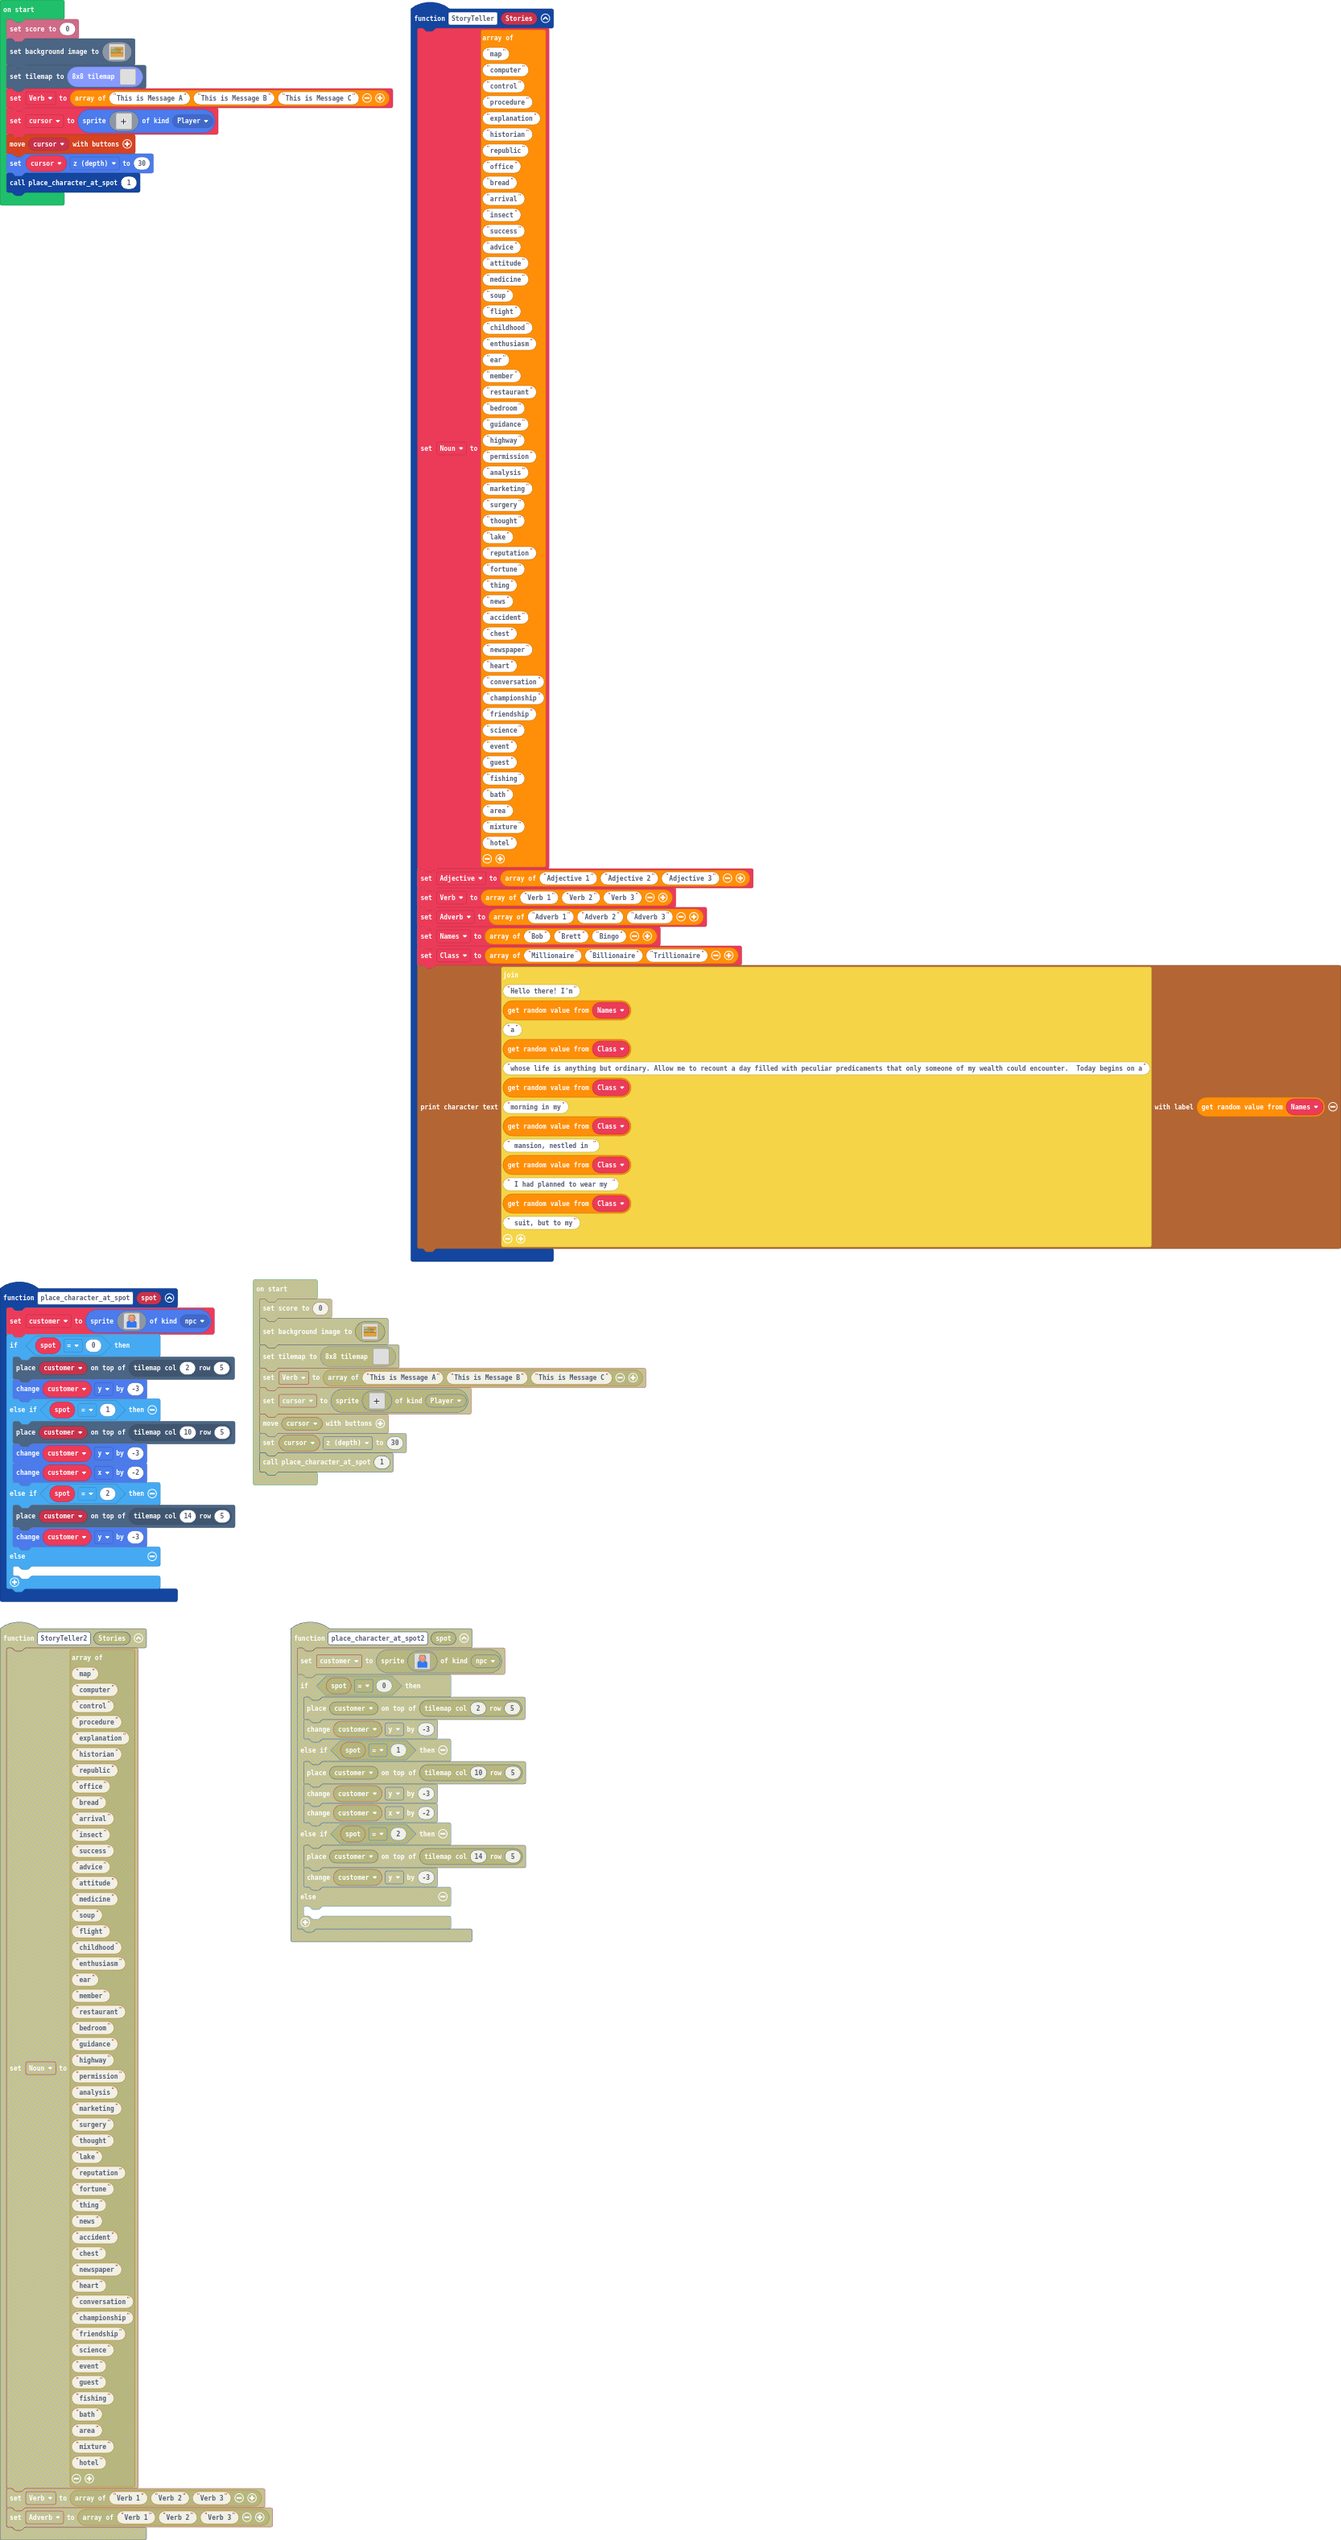
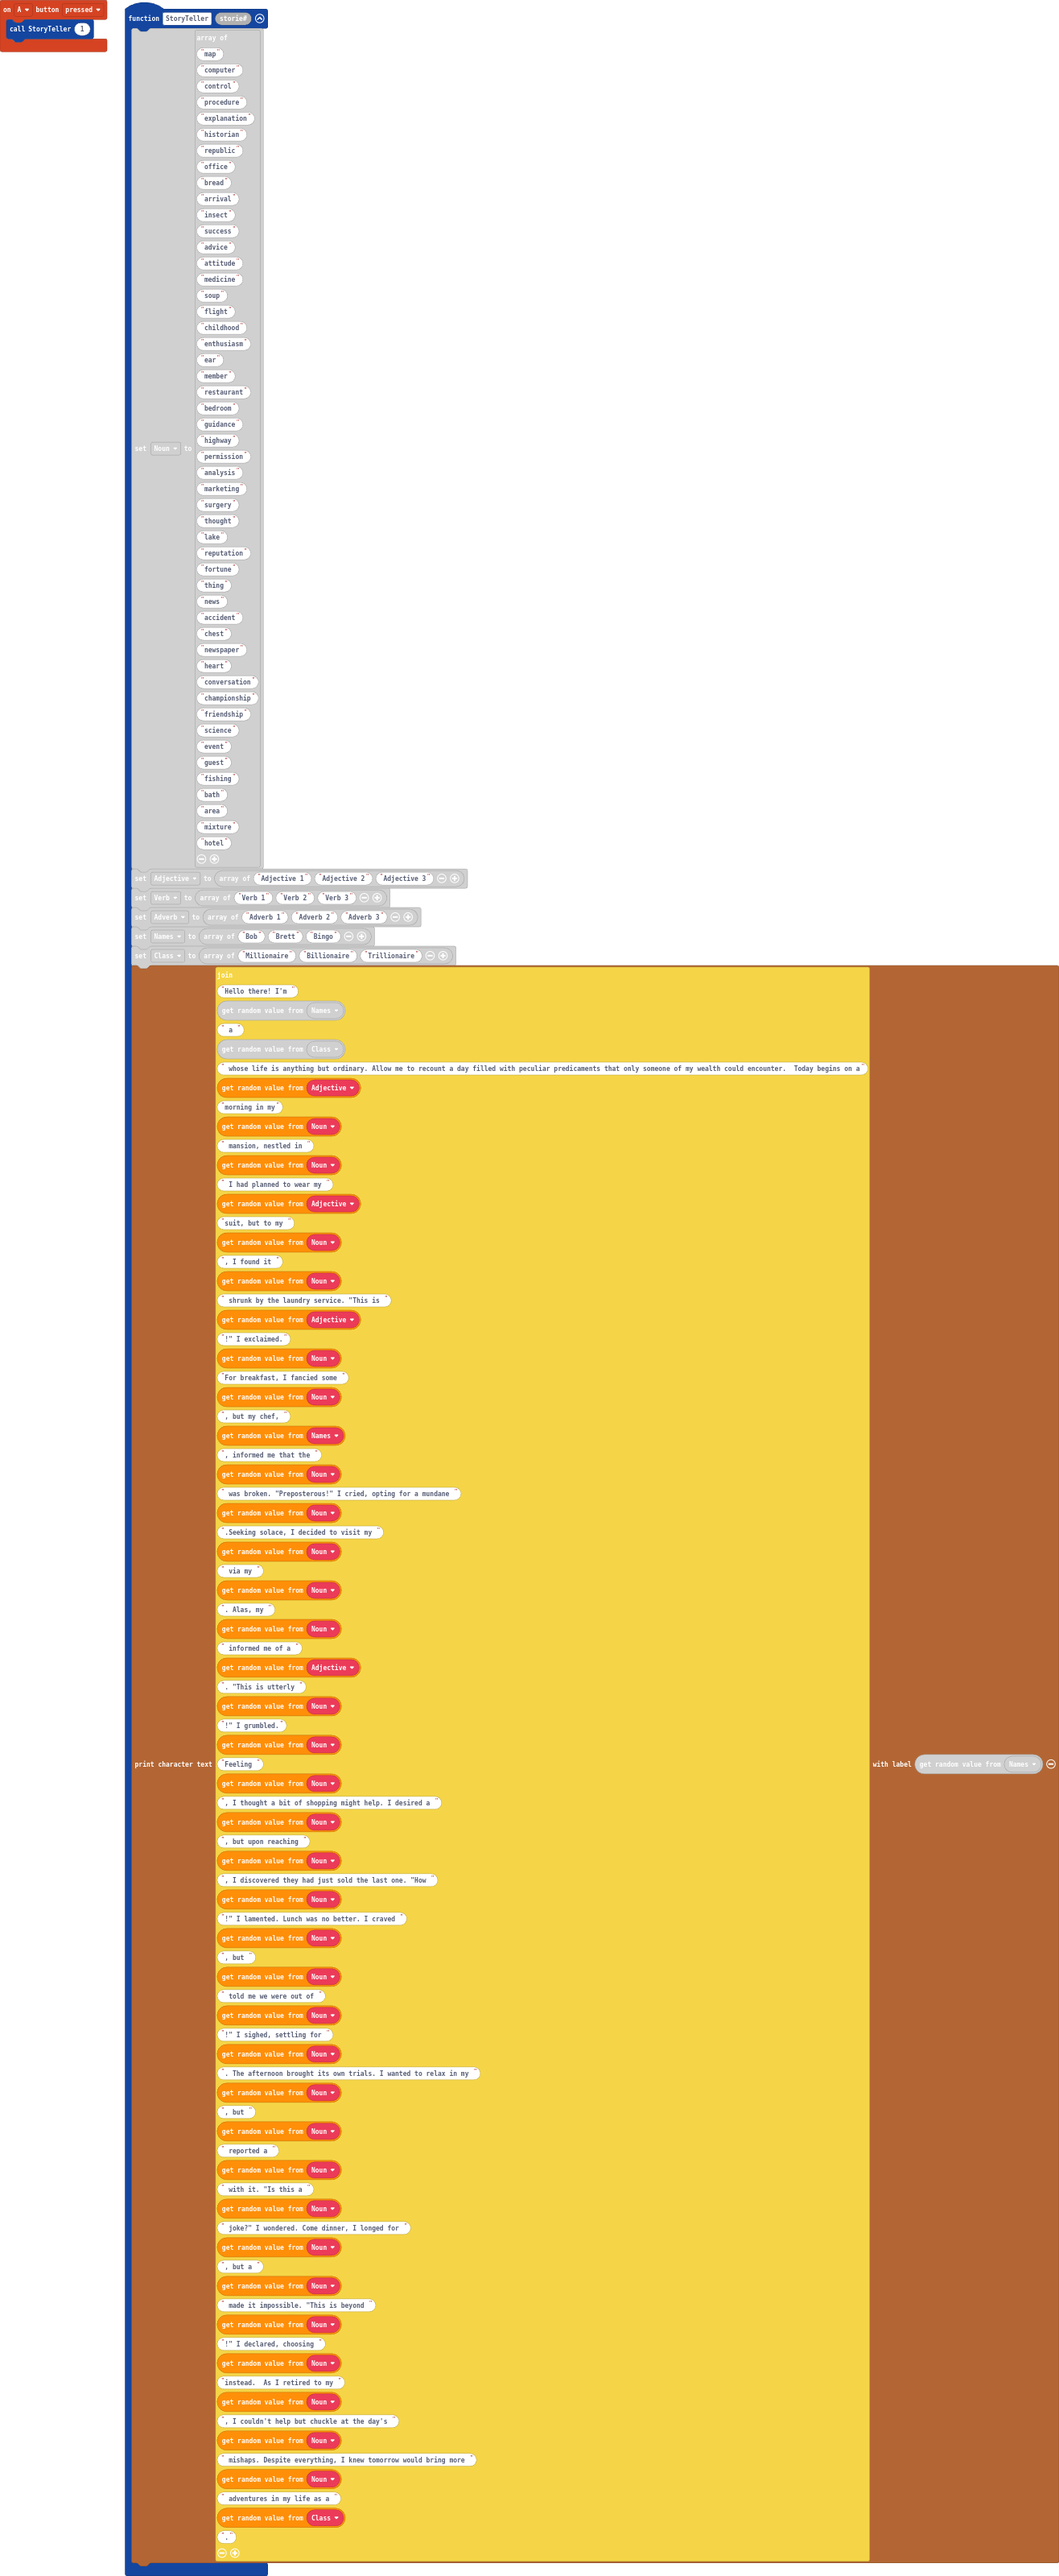
Added Story

diff --git a/main.ts b/main.ts
@@ -2,7 +2,7 @@ namespace SpriteKind {
     export const npc = SpriteKind.create()
     export const greyed_npc = SpriteKind.create()
 }
-function StoryTeller (Stories: any[]) {
+function StoryTeller (storie: number) {
     Noun = [
     "map",
     "computer",
@@ -60,8 +60,11 @@ function StoryTeller (Stories: any[]) {
     Adverb = ["Adverb 1", "Adverb 2", "Adverb 3"]
     Names = ["Bob", "Brett", "Bingo"]
     Class = ["Millionaire", "Billionaire", "Trillionaire"]
-    story.printCharacterText("Hello there! I'm" + Names._pickRandom() + "a" + Class._pickRandom() + "whose life is anything but ordinary. Allow me to recount a day filled with peculiar predicaments that only someone of my wealth could encounter.  Today begins on a" + Class._pickRandom() + "morning in my" + Class._pickRandom() + " mansion, nestled in " + Class._pickRandom() + " I had planned to wear my " + Class._pickRandom() + " suit, but to my", Names._pickRandom())
+    story.printCharacterText("Hello there! I'm " + Names._pickRandom() + " a " + Class._pickRandom() + " whose life is anything but ordinary. Allow me to recount a day filled with peculiar predicaments that only someone of my wealth could encounter.  Today begins on a" + Adjective._pickRandom() + "morning in my" + Noun._pickRandom() + " mansion, nestled in " + Noun._pickRandom() + " I had planned to wear my " + Adjective._pickRandom() + "suit, but to my " + Noun._pickRandom() + ", I found it " + Noun._pickRandom() + " shrunk by the laundry service. \"This is " + Adjective._pickRandom() + "!\" I exclaimed." + Noun._pickRandom() + "For breakfast, I fancied some " + Noun._pickRandom() + ", but my chef, " + Names._pickRandom() + ", informed me that the " + Noun._pickRandom() + " was broken. \"Preposterous!\" I cried, opting for a mundane " + Noun._pickRandom() + ".Seeking solace, I decided to visit my " + Noun._pickRandom() + " via my " + Noun._pickRandom() + ". Alas, my " + Noun._pickRandom() + " informed me of a " + Adjective._pickRandom() + ". \"This is utterly " + Noun._pickRandom() + "!\" I grumbled." + Noun._pickRandom() + "Feeling " + Noun._pickRandom() + ", I thought a bit of shopping might help. I desired a " + Noun._pickRandom() + ", but upon reaching " + Noun._pickRandom() + ", I discovered they had just sold the last one. \"How " + Noun._pickRandom() + "!\" I lamented. Lunch was no better. I craved " + Noun._pickRandom() + ", but " + Noun._pickRandom() + " told me we were out of " + Noun._pickRandom() + "!\" I sighed, settling for " + Noun._pickRandom() + ". The afternoon brought its own trials. I wanted to relax in my " + Noun._pickRandom() + ", but " + Noun._pickRandom() + " reported a " + Noun._pickRandom() + " with it. \"Is this a " + Noun._pickRandom() + " joke?\" I wondered. Come dinner, I longed for " + Noun._pickRandom() + ", but a " + Noun._pickRandom() + " made it impossible. \"This is beyond " + Noun._pickRandom() + "!\" I declared, choosing " + Noun._pickRandom() + "instead.  As I retired to my " + Noun._pickRandom() + ", I couldn't help but chuckle at the day's " + Noun._pickRandom() + " mishaps. Despite everything, I knew tomorrow would bring more " + Noun._pickRandom() + " adventures in my life as a " + Class._pickRandom() + ".", Names._pickRandom())
 }
+controller.A.onEvent(ControllerButtonEvent.Pressed, function () {
+    StoryTeller(1)
+})
 function place_character_at_spot (spot: number) {
     customer = sprites.create(assets.image`myImage2`, SpriteKind.npc)
     if (spot == 0) {

diff --git a/tilemap.g.ts b/tilemap.g.ts
@@ -46,6 +46,24 @@ namespace myTiles {
 . . . . . . . . . . . . . . . . . . . . 
 . . . . . . . . . . . . . . . . . . . . 
 `, [myTiles.transparency8,myTiles.tile1], TileScale.Eight);
+            case "level3":
[1 lines of base64/hex data omitted]
+. . . . . . . . . . . . . . . . . . . . 
+. . . . . . . . . . . . . . . . . . . . 
+. . . . . . . . . . . . . . . . . . . . 
+. . . . . . . . . . . . . . . . . . . . 
+. . . . . . . . . . . . . . . . . . . . 
+. . . . . . . . . . . . . . . . . . . . 
+. . . . . . . . . . . . . . . . . . . . 
+. . . . . . . . . . . . . . . . . . . . 
+. . . . . . . . . . . . . . . . . . . . 
+. . . . . . . . . . . . . . . . . . . . 
+. . . . . . . . . . . . . . . . . . . . 
+. . . . . . . . . . . . . . . . . . . . 
+. . . . . . . . . . . . . . . . . . . . 
+. . . . . . . . . . . . . . . . . . . . 
+. . . . . . . . . . . . . . . . . . . . 
+`, [myTiles.transparency8], TileScale.Eight);
         }
         return null;
     })
